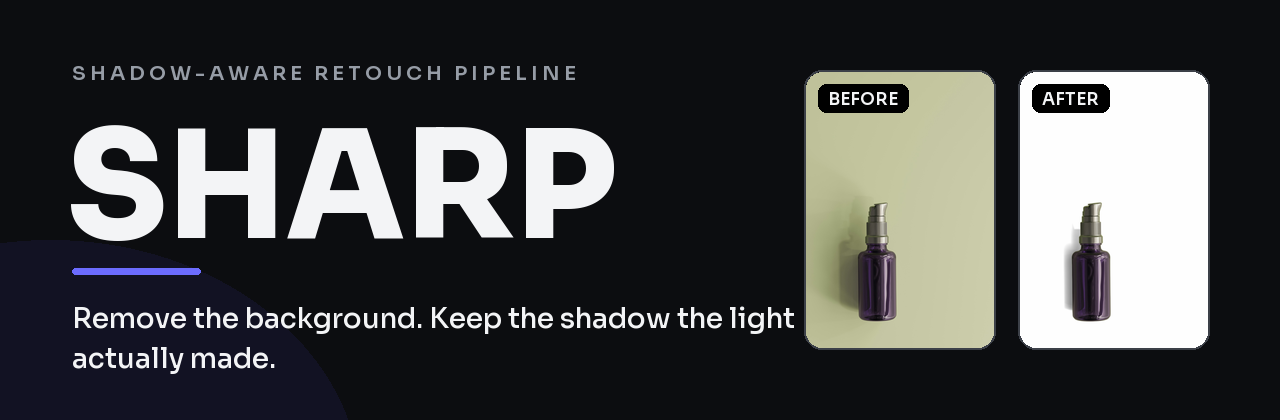
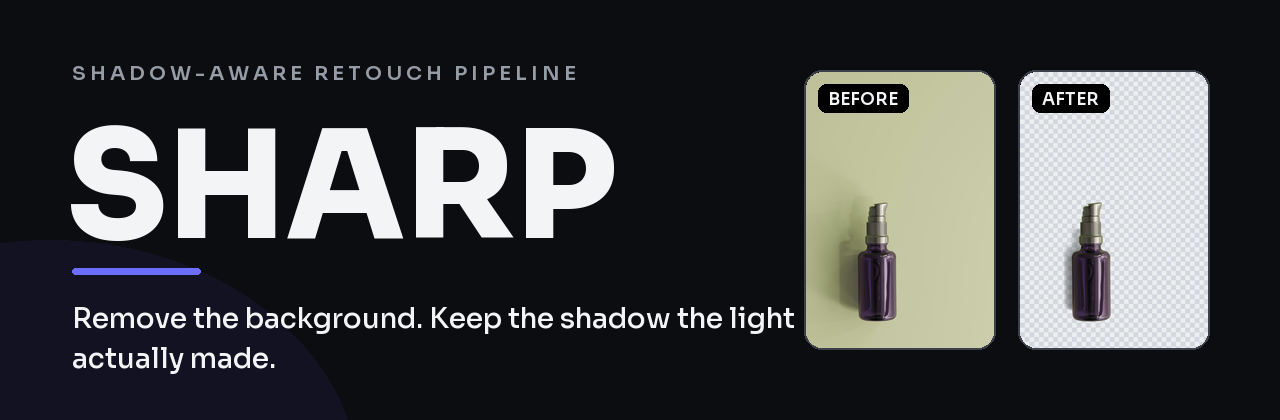
docs: show the transparent cutout in the demo
The README demo showed only the white-backdrop composite. Add a transparent
cutout to make_figures.py (05-cutout.png) mirroring the browser's transparent
mode — product over the kept shadow onto alpha — and rebuild the banner, GIF
and a five-stage strip with the cutout flattened over a transparency
checkerboard. The hero now shows no backdrop with the shadow kept.

Changed region(s): [[0.7812, 0.1548, 0.9688, 0.8357]]

diff --git a/docs/make_figures.py b/docs/make_figures.py
@@ -10,6 +10,7 @@ It writes four PNGs into docs/figures/, which is exactly what the README shows:
     02-matte.png        the alpha matte from BiRefNet: white is product
     03-shadow-map.png   how much each background pixel darkens the backdrop
     04-output.png       the composite: pure white, product untouched, shadow kept
+    05-cutout.png       transparent RGBA: no backdrop, the shadow kept as semi-transparent black
 
 The maths here mirrors src/backdrop.ts on purpose. The browser does the compositing at
 full resolution; this script exists so the figures in the README are generated, never
@@ -119,6 +120,14 @@ def main(entrada: Path) -> None:
     branco = (255.0 * mapa)[..., None].repeat(3, axis=2)
     saida = bgr.astype(np.float32) * (1 - peso) + branco * peso
     cv2.imwrite(str(SAIDA / "04-output.png"), np.clip(saida, 0, 255).astype(np.uint8))
+
+    # Transparent cutout: product over the kept shadow onto alpha, mirrors the browser's transparent
+    # mode. The shadow becomes semi-transparent black; the clean backdrop goes fully transparent.
+    sombra = 1.0 - mapa[..., None]                               # 0 clean .. shadow strength
+    cobre = (1.0 - peso) + peso * sombra                         # final coverage (alpha)
+    rgb = bgr.astype(np.float32) * (1.0 - peso) / np.maximum(cobre, 1e-6)
+    bgra = np.concatenate([np.clip(rgb, 0, 255), np.clip(cobre * 255.0, 0, 255)], axis=2)
+    cv2.imwrite(str(SAIDA / "05-cutout.png"), bgra.astype(np.uint8))
 
     print(f"figures written to {SAIDA} ({largura}x{altura}, model {mascara.modelo})")
 

diff --git a/README.md b/README.md
@@ -4,9 +4,9 @@
 
 <h3>Remove the background from a product photo — and keep the shadow the light actually made.</h3>
 
-Every product pixel stays **byte-for-byte identical**. The backdrop becomes **pure white**. The
-contact shadow survives with its **real shape and softness**. Runs locally — the photo never
-leaves the machine.
+Every product pixel stays **byte-for-byte identical**. The backdrop becomes **pure white — or
+drops out to transparent**. The contact shadow survives with its **real shape and softness**.
+Runs locally — the photo never leaves the machine.
 
 ![License](https://img.shields.io/badge/license-MIT-6c6cff)
 ![Runs offline](https://img.shields.io/badge/runs-100%25%20offline-1b1e23)
@@ -64,7 +64,7 @@ Four stages. The figures below are generated by `docs/make_figures.py` — they 
 intermediate buffers, not illustrations.
 
 <div align="center">
-<img src="docs/media/pipeline.png" alt="The four stages: photo, alpha matte, shadow map, composite" width="900">
+<img src="docs/media/pipeline.png" alt="The stages: photo, alpha matte, shadow map, white backdrop, transparent cutout" width="960">
 </div>
 
 ### 1. The photo
@@ -102,6 +102,13 @@ to white — that is how the wrinkles disappear without touching the shadow.
 `white × factor` outside the product, original bytes inside, with a soft seam between the two. No
 colour correction, no saturation, no sharpening, no tone curve: lighting is a job for the softbox,
 not for the software.
+
+### 5. Or no backdrop at all
+
+Same matte, same shadow — composited onto alpha instead of white. The clean backdrop becomes fully
+transparent and the shadow is kept as semi-transparent black, so the product drops onto any page
+with its shadow intact. This is the **Transparent** toggle in the studio; it exports a PNG where
+white mode exports a JPEG.
 
 ---
 
